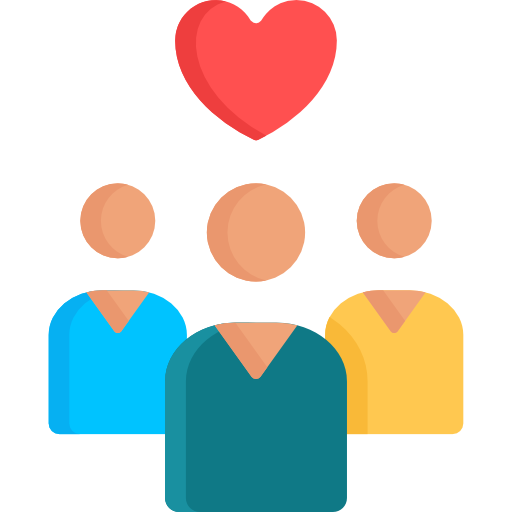
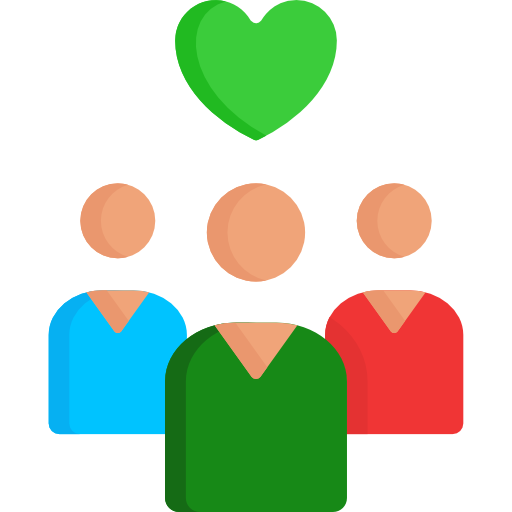
add layout alternative

Changed region(s): [[0.3125, 0.5625, 0.9062, 1.0], [0.3438, 0.0, 0.6562, 0.2812]]

diff --git a/app/assets/stylesheets/style.scss b/app/assets/stylesheets/style.scss
@@ -3,10 +3,7 @@ html, body
   height: 100%;
 }
 body{
-  background: -webkit-linear-gradient(#0F7986, #fff); /* For Safari 5.1 to 6.0 */
-  background: -o-linear-gradient(#0F7986, #fff); /* For Opera 11.1 to 12.0 */
-  background: -moz-linear-gradient(#0F7986, #fff); /* For Firefox 3.6 to 15 */
-  background: linear-gradient(#0F7986, #fff); /* Standard syntax (must be last) */
+  background: #fff;
   background-attachment: fixed;
   background-repeat: no-repeat;
 }
@@ -25,8 +22,7 @@ nav + * {
   border-top-left-radius: 30px;
   border-top-right-radius: 30px;
   padding: 10px 50px 50px;
-  height: 100%;
-  min-height: 500px;
+  min-height: 900px;
 }
 
 .bg-light {
@@ -77,20 +73,29 @@ nav + * {
 }
 
 .footer-bottom {
-    background-color: #f8f8f8;
+    background-color: #408b10 !important;
     min-height: 30px;
     width: 100%;
 }
 .copyright {
-    color: #333;
+    color: #fff;
     line-height: 30px;
     min-height: 30px;
     padding: 7px 0;
 }
 .design {
-    color: #333;
+    color: #fff;
     line-height: 30px;
     min-height: 30px;
     padding: 7px 0;
     text-align: right;
+}
+
+.bg-dark, .bg-dark a {
+  background-color: #3f8b11 !important;
+  color: #fff;
+}
+
+.navbar-dark .navbar-nav .nav-link {
+    color:  #fff;
 }
